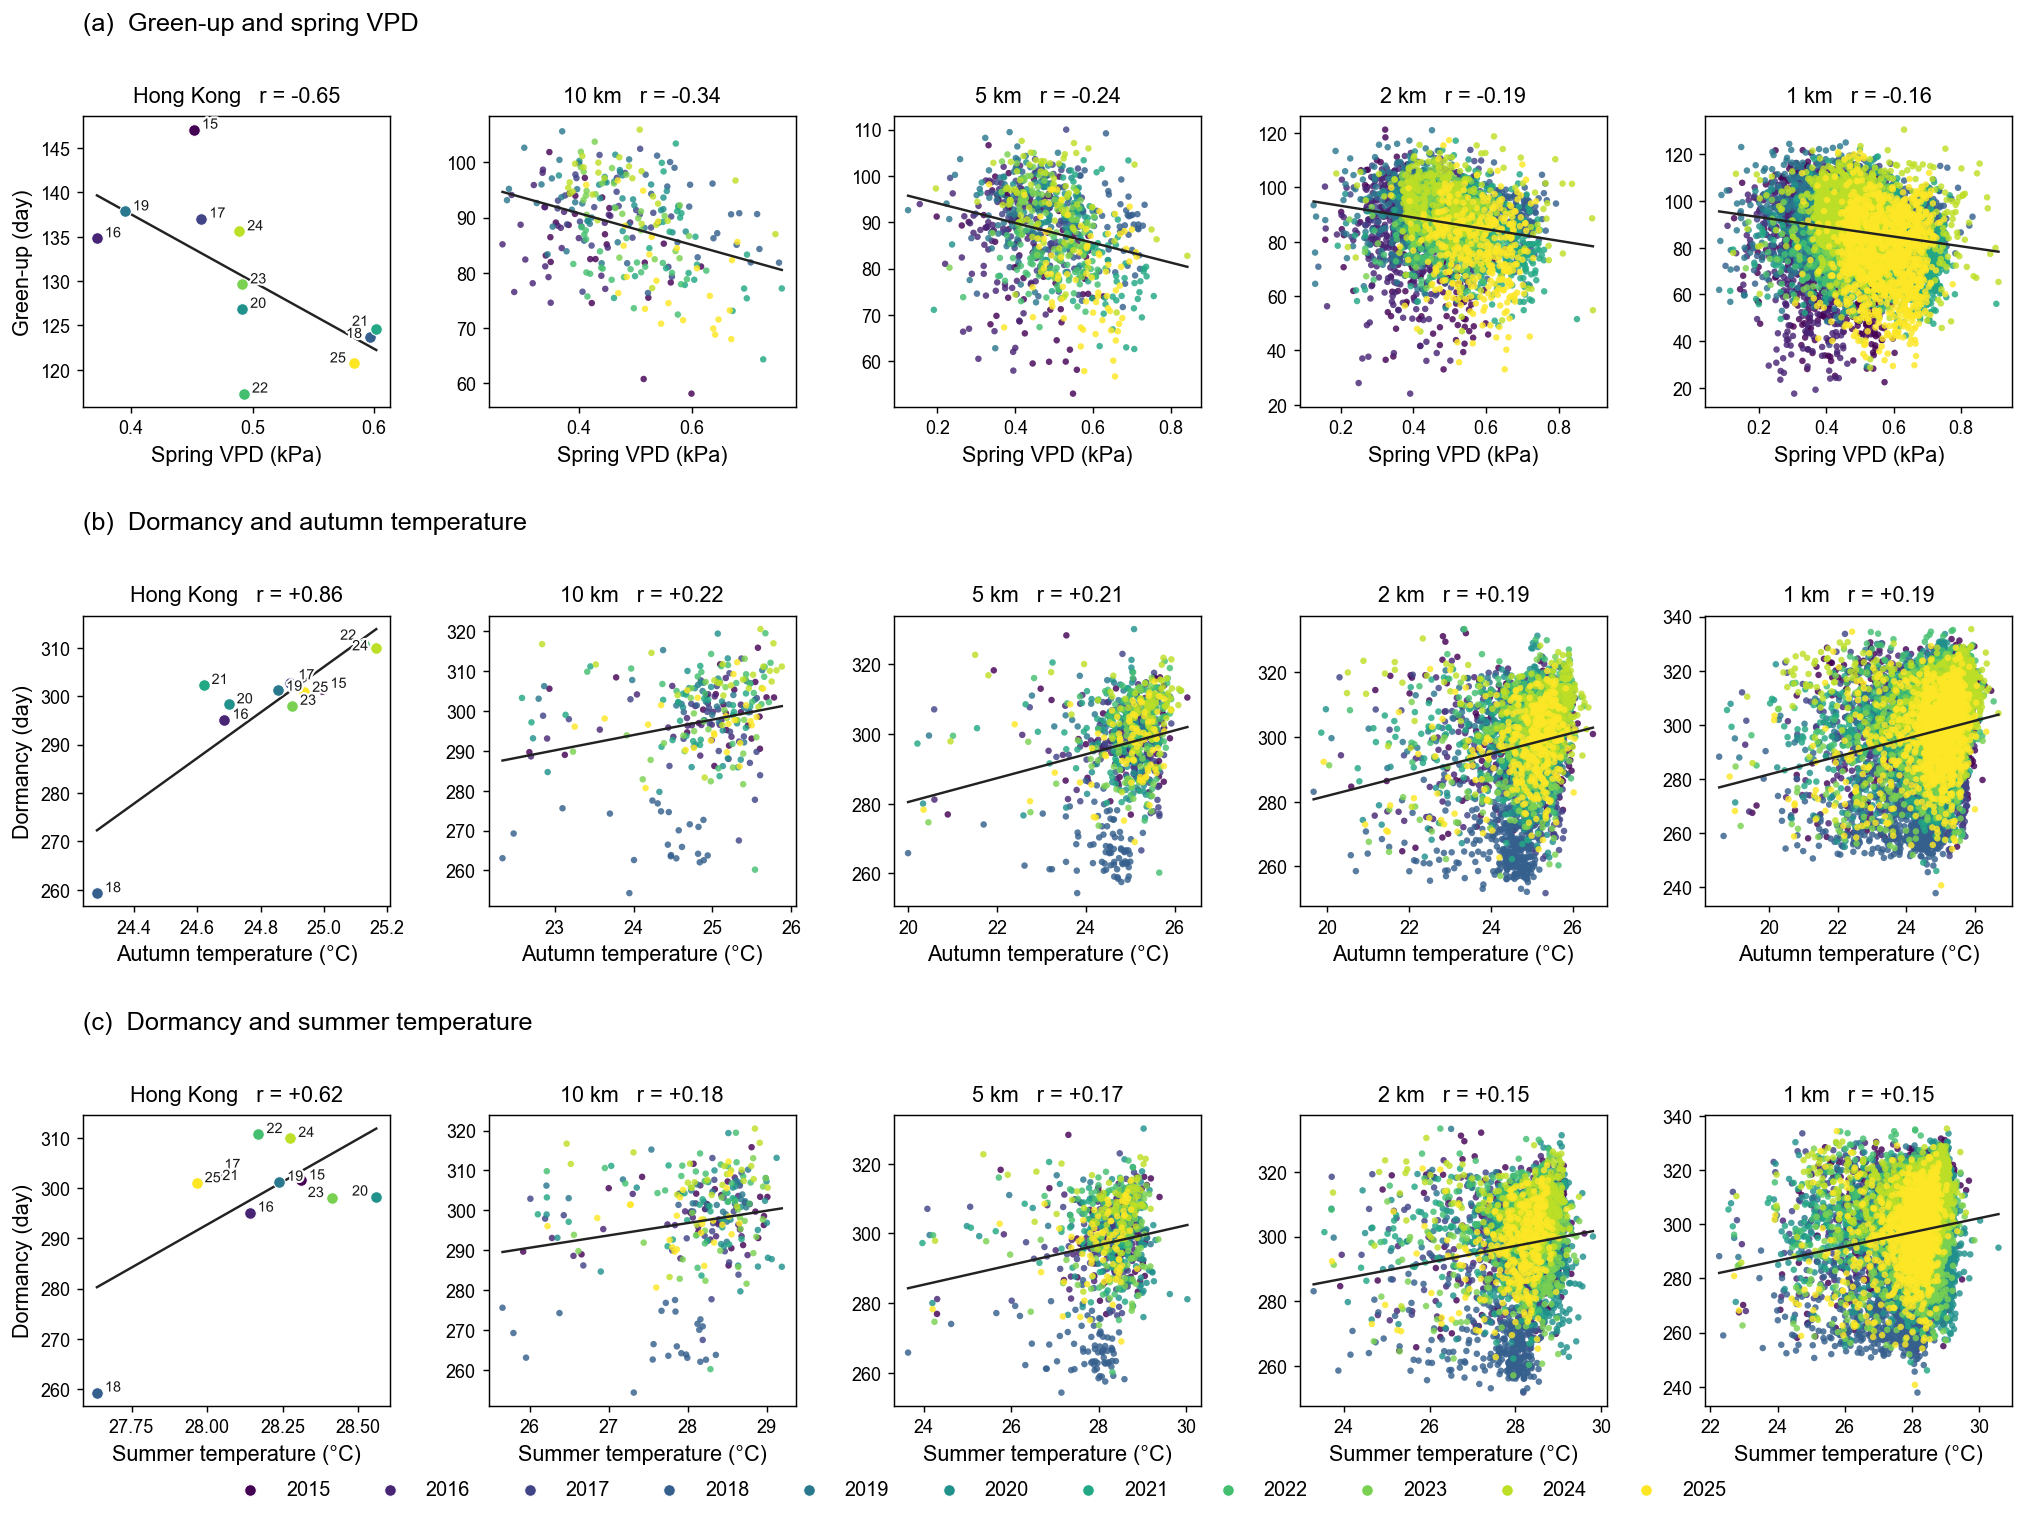
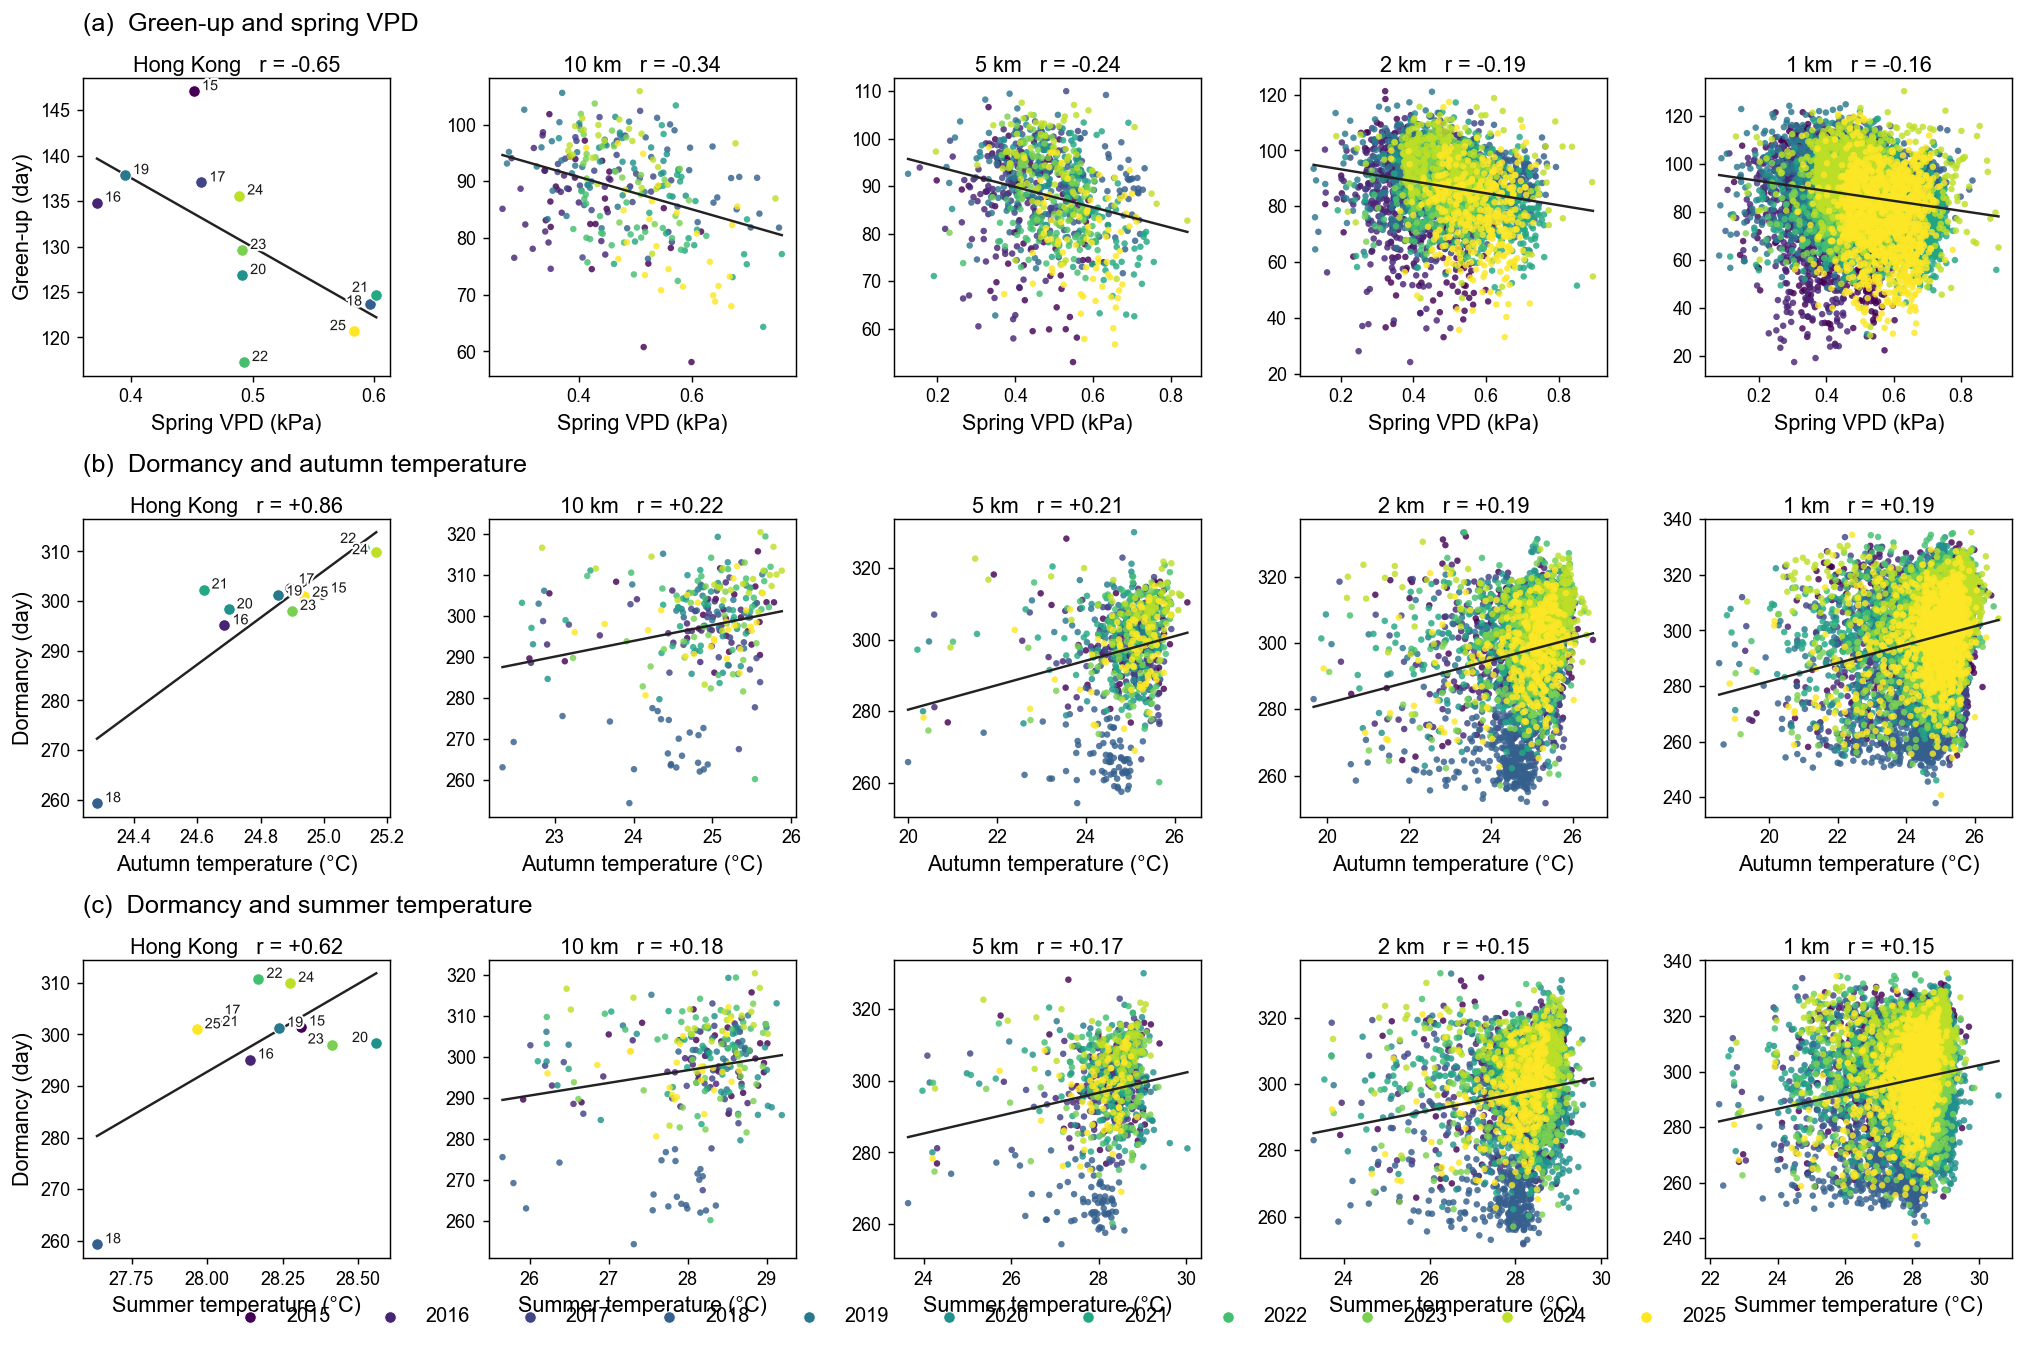
Move the row labels closer to their scatters and tighten the row spacing.

diff --git a/plot_driver_grid_scales.py b/plot_driver_grid_scales.py
@@ -177,8 +177,8 @@ def draw(bundles: dict, path: Path) -> None:
         "(b)  Dormancy and autumn temperature",
         "(c)  Dormancy and summer temperature",
     )
-    fig, axes = plt.subplots(len(PAIRS), len(columns), figsize=(16.4, 11.4), dpi=130)
-    fig.subplots_adjust(left=0.08, right=0.985, top=0.95, bottom=0.08, hspace=0.72, wspace=0.32)
+    fig, axes = plt.subplots(len(PAIRS), len(columns), figsize=(16.4, 10.2), dpi=130)
+    fig.subplots_adjust(left=0.08, right=0.985, top=0.96, bottom=0.07, hspace=0.48, wspace=0.32)
     year_list = None
     for row, (xname, yname, title, xlabel, ylabel) in enumerate(PAIRS):
         del title, xlabel, ylabel
@@ -208,12 +208,12 @@ def draw(bundles: dict, path: Path) -> None:
                 ax.plot(xs, intercept + slope * xs, color="#222222", lw=1.35, zorder=3)
             if key == "hk":
                 annotate_years(ax, years, x, y, size=8, inside=True)
-            ax.set_title(f"{label}   r = {pack['r']:+.2f}", fontproperties=font, fontsize=12, color="black", pad=8)
+            ax.set_title(f"{label}   r = {pack['r']:+.2f}", fontproperties=font, fontsize=12, color="black", pad=3)
             ax.set_xlabel(xlabels[row], fontproperties=font, fontsize=12, color="black")
             if col == 0:
                 ax.set_ylabel(ylabels[row], fontproperties=font, fontsize=12, color="black")
                 ax.text(
-                    0.0, 1.28, captions[row],
+                    0.0, 1.14, captions[row],
                     transform=ax.transAxes,
                     ha="left", va="bottom",
                     fontproperties=letter_font,
